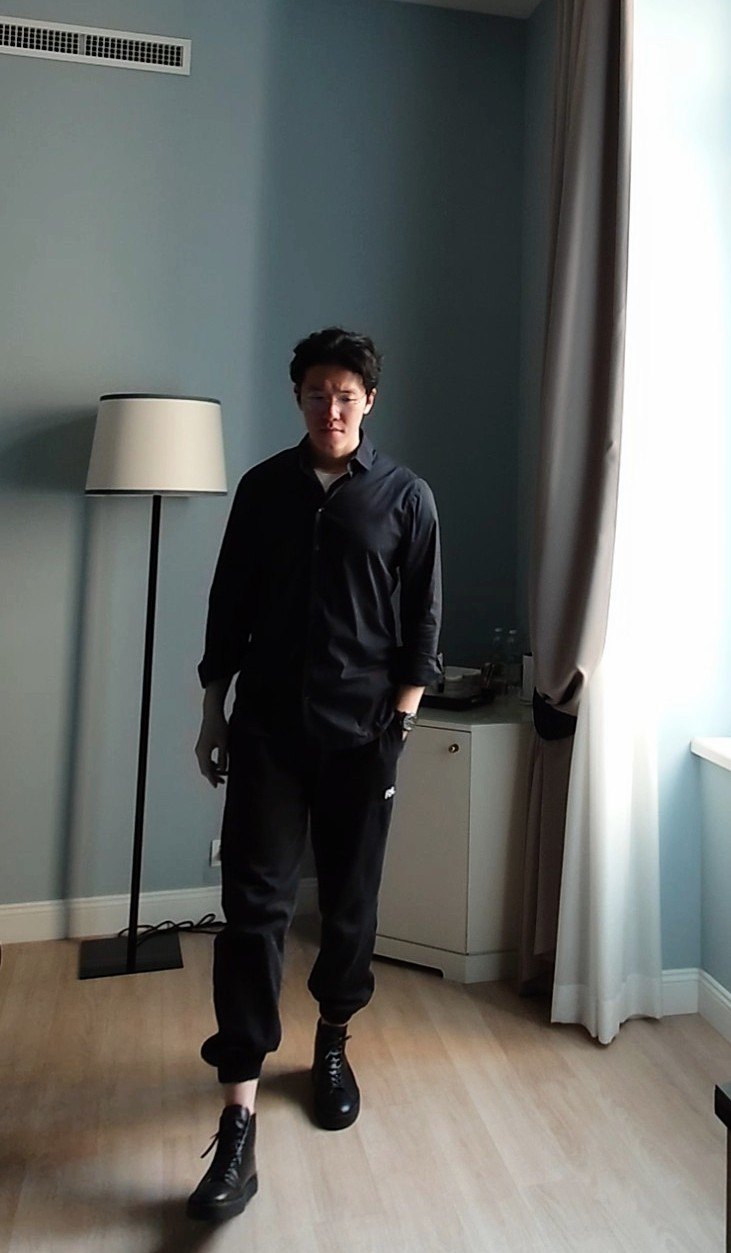
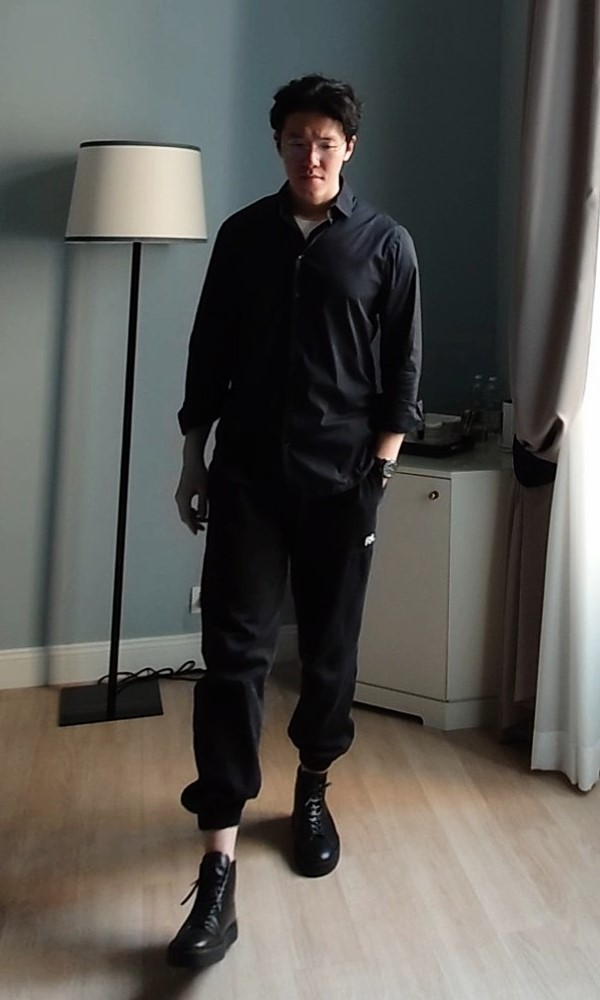
adjust UI

diff --git a/index.html b/index.html
@@ -68,7 +68,7 @@
                 </p>
               </div>
               <div class="image-content">
-                <img src="folio.jpg" alt="Me" width="500" height="857">
+                <img src="folio.jpg" alt="Me" width="300" height="500">
               </div>
             </div>
           </div>
